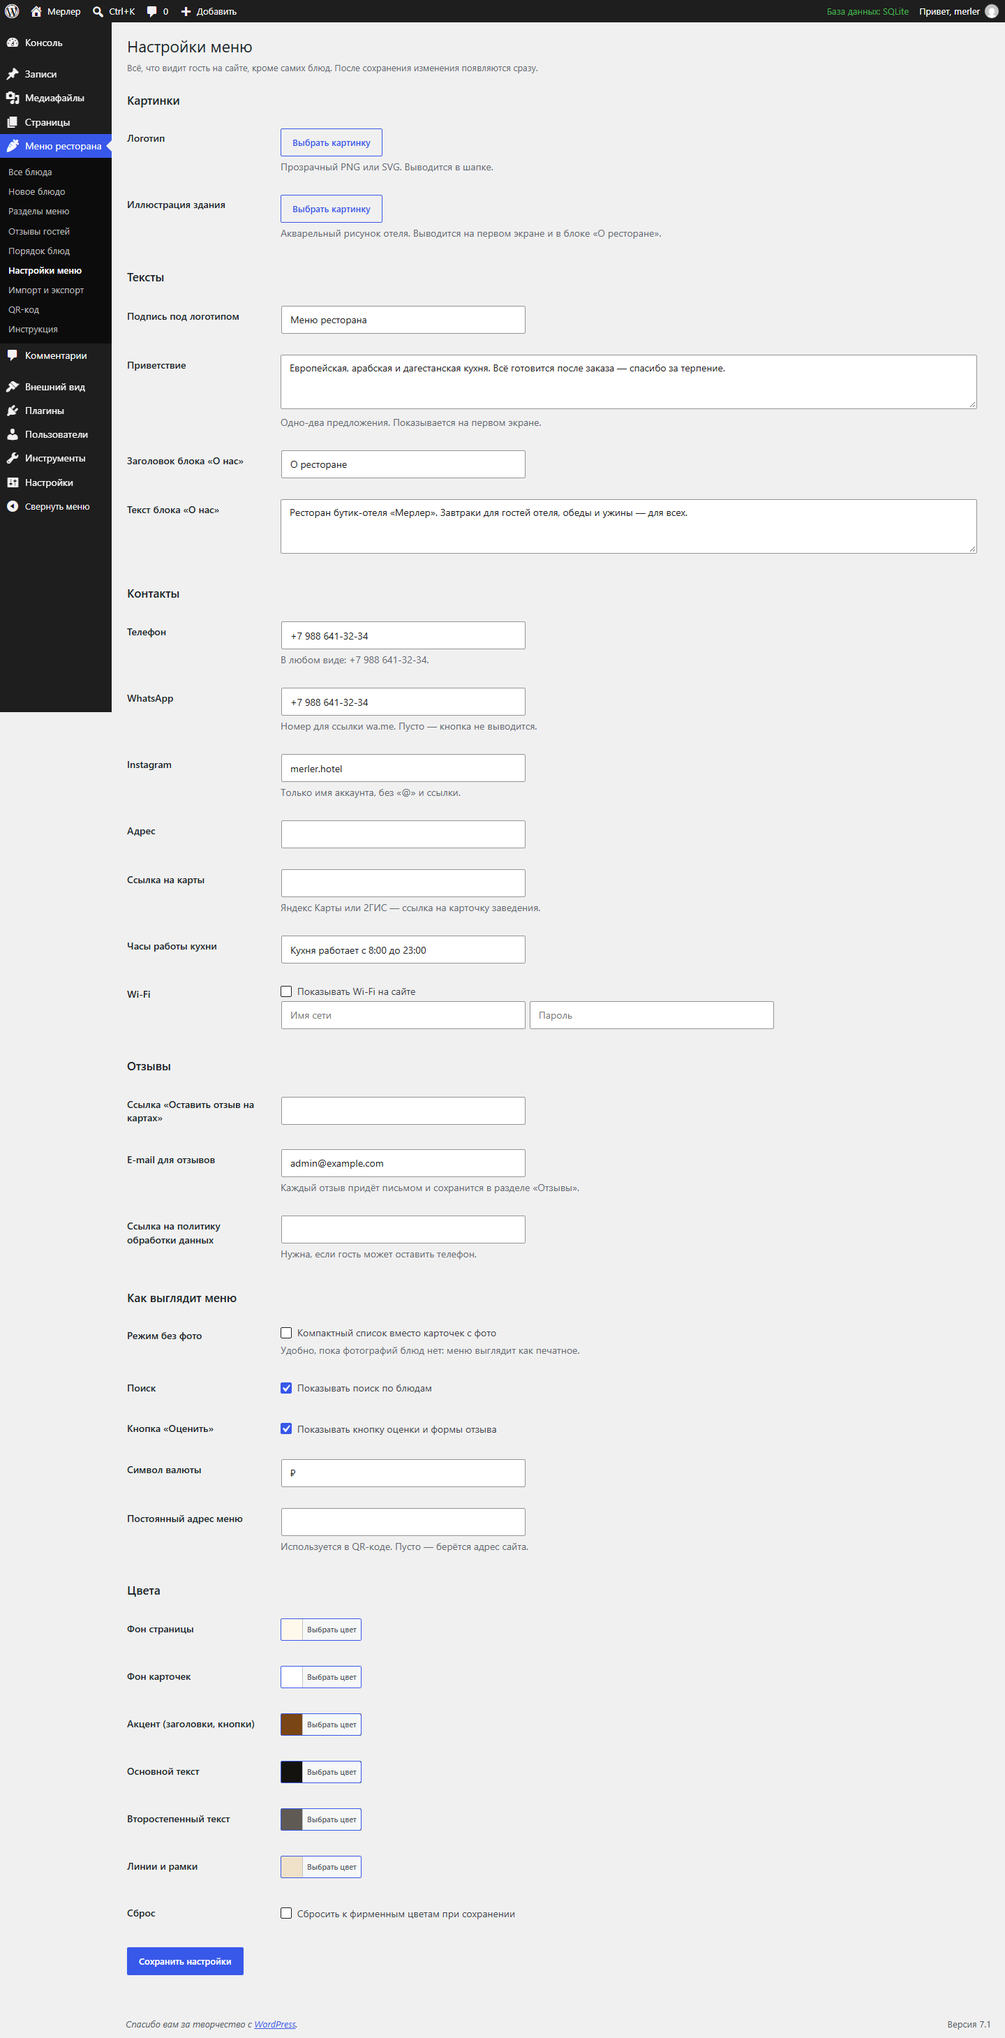
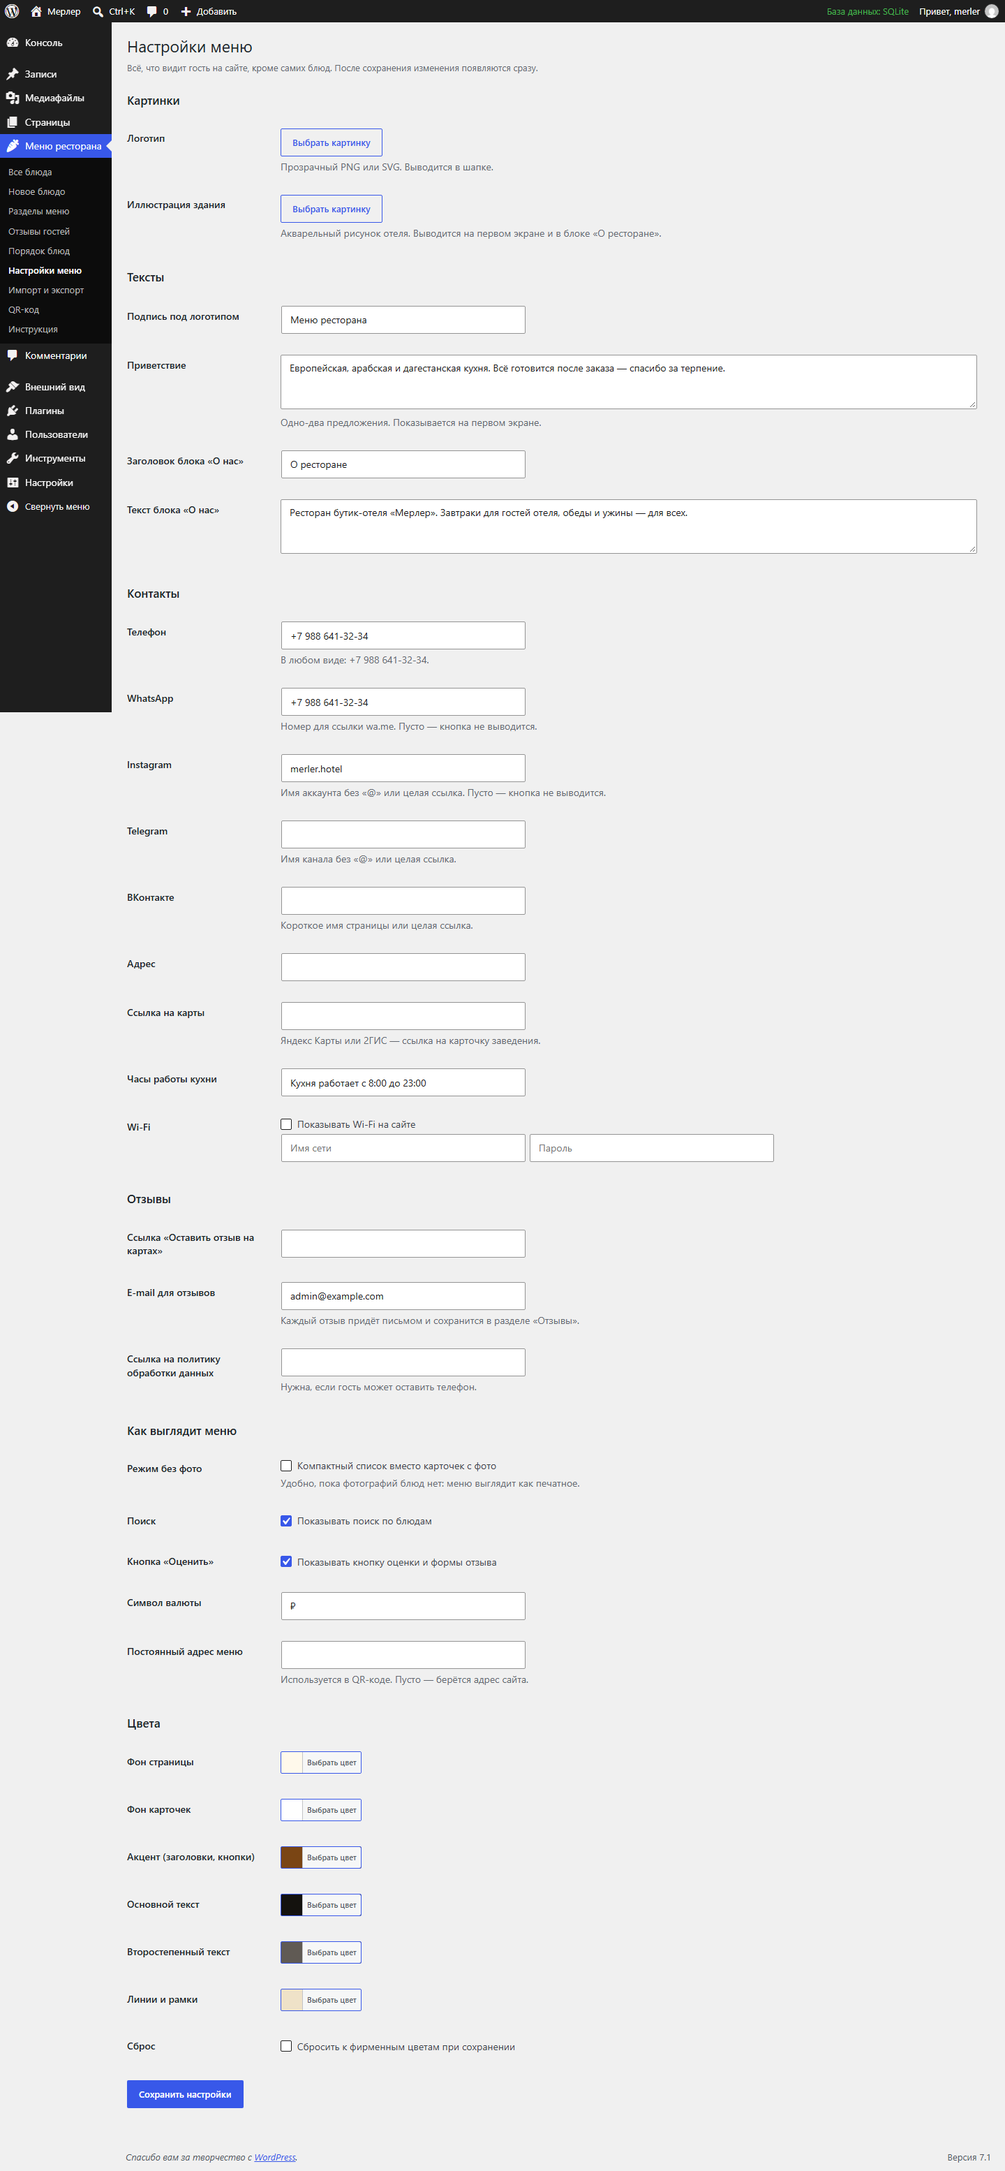
Соцсети в настройках: добавлены Telegram и ВКонтакте
Заказчик хочет менять описание сверху и ссылки на соцсети сам. Приветствие и
Instagram уже были в «Настройках меню», добавлены поля Telegram и ВКонтакте.

В поле принимается и короткое имя аккаунта, и целая ссылка — merler_social_url()
разбирается сам. Пустое поле не выводит кнопку на сайте.

Инструкция для клиента дополнена таблицей «что видит гость → где меняется»
по всем полям настроек.

Проверено: username → t.me/merler_hotel, полная ссылка остаётся как есть.
Тесты: 31 из 31 в первой части.

diff --git a/index.html b/index.html
@@ -3873,7 +3873,7 @@ html :where(.is-position-sticky) {
 							<a href="https://wa.me/79886413234" target="_blank" rel="noopener">WhatsApp</a>
 			
 							<a href="https://instagram.com/merler.hotel" target="_blank" rel="noopener">Instagram</a>
-			
+				
 					</div>
 	</div>
 

diff --git a/plugin/merler-menu/includes/class-merler-settings.php b/plugin/merler-menu/includes/class-merler-settings.php
@@ -46,6 +46,8 @@ class Merler_Settings {
 			'phone'         => '+7 988 641-32-34',
 			'whatsapp'      => '+7 988 641-32-34',
 			'instagram'     => 'merler.hotel',
+			'telegram'      => '',
+			'vk'            => '',
 			'address'       => '',
 			'map_url'       => '',
 			'hours'         => __( 'Кухня работает с 8:00 до 23:00', 'merler-menu' ),
@@ -124,7 +126,7 @@ class Merler_Settings {
 		$input    = is_array( $input ) ? $input : array();
 		$defaults = self::defaults();
 
-		$text_fields = array( 'hero_title', 'about_title', 'phone', 'whatsapp', 'instagram', 'address', 'hours', 'wifi_name', 'wifi_pass', 'currency' );
+		$text_fields = array( 'hero_title', 'about_title', 'phone', 'whatsapp', 'instagram', 'telegram', 'vk', 'address', 'hours', 'wifi_name', 'wifi_pass', 'currency' );
 		foreach ( $text_fields as $field ) {
 			if ( isset( $input[ $field ] ) ) {
 				$out[ $field ] = sanitize_text_field( wp_unslash( $input[ $field ] ) );
@@ -221,7 +223,9 @@ class Merler_Settings {
 					<?php
 					self::text_row( 'phone', __( 'Телефон', 'merler-menu' ), $s['phone'], __( 'В любом виде: +7 988 641-32-34.', 'merler-menu' ) );
 					self::text_row( 'whatsapp', __( 'WhatsApp', 'merler-menu' ), $s['whatsapp'], __( 'Номер для ссылки wa.me. Пусто — кнопка не выводится.', 'merler-menu' ) );
-					self::text_row( 'instagram', __( 'Instagram', 'merler-menu' ), $s['instagram'], __( 'Только имя аккаунта, без «@» и ссылки.', 'merler-menu' ) );
+					self::text_row( 'instagram', __( 'Instagram', 'merler-menu' ), $s['instagram'], __( 'Имя аккаунта без «@» или целая ссылка. Пусто — кнопка не выводится.', 'merler-menu' ) );
+					self::text_row( 'telegram', __( 'Telegram', 'merler-menu' ), $s['telegram'], __( 'Имя канала без «@» или целая ссылка.', 'merler-menu' ) );
+					self::text_row( 'vk', __( 'ВКонтакте', 'merler-menu' ), $s['vk'], __( 'Короткое имя страницы или целая ссылка.', 'merler-menu' ) );
 					self::text_row( 'address', __( 'Адрес', 'merler-menu' ), $s['address'] );
 					self::text_row( 'map_url', __( 'Ссылка на карты', 'merler-menu' ), $s['map_url'], __( 'Яндекс Карты или 2ГИС — ссылка на карточку заведения.', 'merler-menu' ) );
 					self::text_row( 'hours', __( 'Часы работы кухни', 'merler-menu' ), $s['hours'] );

diff --git a/theme/merler-theme/template-parts/about.php b/theme/merler-theme/template-parts/about.php
@@ -10,6 +10,8 @@ defined( 'ABSPATH' ) || exit;
 $merler_phone     = merler_theme_option( 'phone' );
 $merler_whatsapp  = merler_theme_option( 'whatsapp' );
 $merler_instagram = merler_theme_option( 'instagram' );
+$merler_telegram  = merler_theme_option( 'telegram' );
+$merler_vk        = merler_theme_option( 'vk' );
 $merler_address   = merler_theme_option( 'address' );
 $merler_map       = merler_theme_option( 'map_url' );
 $merler_hours     = merler_theme_option( 'hours' );
@@ -62,9 +64,22 @@ $merler_wa_link    = function_exists( 'merler_phone_digits' ) ? merler_phone_dig
 				<a href="https://wa.me/<?php echo esc_attr( $merler_wa_link ); ?>" target="_blank" rel="noopener">WhatsApp</a>
 			<?php endif; ?>
 
-			<?php if ( $merler_instagram ) : ?>
-				<a href="https://instagram.com/<?php echo esc_attr( ltrim( $merler_instagram, '@' ) ); ?>" target="_blank" rel="noopener">Instagram</a>
-			<?php endif; ?>
+			<?php
+			$merler_socials = array(
+				'Instagram' => function_exists( 'merler_social_url' ) ? merler_social_url( $merler_instagram, 'https://instagram.com/' ) : '',
+				'Telegram'  => function_exists( 'merler_social_url' ) ? merler_social_url( $merler_telegram, 'https://t.me/' ) : '',
+				'ВКонтакте' => function_exists( 'merler_social_url' ) ? merler_social_url( $merler_vk, 'https://vk.com/' ) : '',
+			);
+
+			foreach ( $merler_socials as $merler_label => $merler_link ) :
+				if ( ! $merler_link ) {
+					continue;
+				}
+				?>
+				<a href="<?php echo esc_url( $merler_link ); ?>" target="_blank" rel="noopener"><?php echo esc_html( $merler_label ); ?></a>
+				<?php
+			endforeach;
+			?>
 
 			<?php if ( $merler_map ) : ?>
 				<a href="<?php echo esc_url( $merler_map ); ?>" target="_blank" rel="noopener"><?php esc_html_e( 'На карте', 'merler-theme' ); ?></a>

diff --git a/plugin/merler-menu/includes/functions.php b/plugin/merler-menu/includes/functions.php
@@ -192,3 +192,24 @@ function merler_transliterate( $text ) {
 
 	return sanitize_title( $text );
 }
+
+/**
+ * Ссылка на соцсеть из настройки: клиент может вписать и имя аккаунта, и целый адрес.
+ *
+ * @param string $value Значение настройки.
+ * @param string $base  Базовый адрес, например «https://t.me/».
+ * @return string Готовая ссылка или пустая строка.
+ */
+function merler_social_url( $value, $base ) {
+	$value = trim( (string) $value );
+
+	if ( '' === $value ) {
+		return '';
+	}
+
+	if ( preg_match( '~^https?://~i', $value ) ) {
+		return esc_url_raw( $value );
+	}
+
+	return esc_url_raw( $base . ltrim( $value, '@/' ) );
+}

diff --git a/dist/docs/instrukciya-dlya-klienta.md b/dist/docs/instrukciya-dlya-klienta.md
@@ -99,18 +99,41 @@
 
 ---
 
-## Как поменять телефон, адрес, картинки и цвета
+## Как поменять тексты, контакты, соцсети, картинки и цвета
 
-**«Меню ресторана»** → **«Настройки меню»**. Одна страница, всё подписано:
+Всё это — на одной странице: **«Меню ресторана»** → **«Настройки меню»**. Каждое поле подписано, после кнопки «Сохранить настройки» изменения видны на сайте сразу.
 
-- **Картинки** — логотип и акварельная иллюстрация здания;
-- **Тексты** — приветствие на первом экране и блок «О ресторане»;
-- **Контакты** — телефон, WhatsApp, Instagram, адрес, ссылка на карты, часы работы кухни, Wi-Fi;
-- **Отзывы** — куда ведёт кнопка «Оставить отзыв на картах» и на какую почту приходят отзывы;
-- **Как выглядит меню** — режим без фото, поиск, кнопка «Оценить»;
-- **Цвета** — если что-то испортили, поставьте галочку «Сбросить к фирменным цветам» и сохраните.
+### Что именно можно поменять
 
-Внизу — **«Сохранить настройки»**.
+| Что видит гость | Где меняется |
+|---|---|
+| Логотип в шапке | Картинки → **Логотип** |
+| Акварельный рисунок отеля | Картинки → **Иллюстрация здания** |
+| Подпись «Меню ресторана» под логотипом | Тексты → **Подпись под логотипом** |
+| **Описание сверху** («Европейская, арабская и дагестанская кухня…») | Тексты → **Приветствие** |
+| Заголовок и текст блока «О ресторане» | Тексты → **Заголовок блока «О нас»** и **Текст блока «О нас»** |
+| Телефон (кнопка звонка) | Контакты → **Телефон** |
+| Кнопка WhatsApp | Контакты → **WhatsApp** |
+| **Кнопка Instagram** | Контакты → **Instagram** |
+| **Кнопка Telegram** | Контакты → **Telegram** |
+| **Кнопка ВКонтакте** | Контакты → **ВКонтакте** |
+| Адрес и кнопка «На карте» | Контакты → **Адрес** и **Ссылка на карты** |
+| Часы работы кухни (видны в блоке «О нас» и в подвале) | Контакты → **Часы работы кухни** |
+| Wi-Fi для гостей | Контакты → **Wi-Fi** (галочка «Показывать») |
+| Куда ведёт «Оставить отзыв на картах» | Отзывы → **Ссылка** |
+| Почта, куда приходят отзывы | Отзывы → **E-mail для отзывов** |
+| Компактный список вместо карточек с фото | Как выглядит меню → **Режим без фото** |
+| Поиск и кнопка «Оценить» | Как выглядит меню → галочки |
+| Символ валюты | Как выглядит меню → **Символ валюты** |
+| Цвета фона, карточек, заголовков, текста | Цвета |
+
+### Про соцсети
+
+В поля Instagram, Telegram и ВКонтакте можно вписать **или** короткое имя аккаунта (`merler.hotel`), **или** целую ссылку (`https://vk.com/merlerhotel`) — сайт разберётся сам. Если поле пустое, кнопка на сайте не выводится: лишних кнопок не будет.
+
+### Если испортили цвета
+
+В разделе «Цвета» поставьте галочку **«Сбросить к фирменным цветам»** и сохраните — вернутся исходные.
 
 ---
 

diff --git a/docs/instrukciya-dlya-klienta.md b/docs/instrukciya-dlya-klienta.md
@@ -99,18 +99,41 @@
 
 ---
 
-## Как поменять телефон, адрес, картинки и цвета
+## Как поменять тексты, контакты, соцсети, картинки и цвета
 
-**«Меню ресторана»** → **«Настройки меню»**. Одна страница, всё подписано:
+Всё это — на одной странице: **«Меню ресторана»** → **«Настройки меню»**. Каждое поле подписано, после кнопки «Сохранить настройки» изменения видны на сайте сразу.
 
-- **Картинки** — логотип и акварельная иллюстрация здания;
-- **Тексты** — приветствие на первом экране и блок «О ресторане»;
-- **Контакты** — телефон, WhatsApp, Instagram, адрес, ссылка на карты, часы работы кухни, Wi-Fi;
-- **Отзывы** — куда ведёт кнопка «Оставить отзыв на картах» и на какую почту приходят отзывы;
-- **Как выглядит меню** — режим без фото, поиск, кнопка «Оценить»;
-- **Цвета** — если что-то испортили, поставьте галочку «Сбросить к фирменным цветам» и сохраните.
+### Что именно можно поменять
 
-Внизу — **«Сохранить настройки»**.
+| Что видит гость | Где меняется |
+|---|---|
+| Логотип в шапке | Картинки → **Логотип** |
+| Акварельный рисунок отеля | Картинки → **Иллюстрация здания** |
+| Подпись «Меню ресторана» под логотипом | Тексты → **Подпись под логотипом** |
+| **Описание сверху** («Европейская, арабская и дагестанская кухня…») | Тексты → **Приветствие** |
+| Заголовок и текст блока «О ресторане» | Тексты → **Заголовок блока «О нас»** и **Текст блока «О нас»** |
+| Телефон (кнопка звонка) | Контакты → **Телефон** |
+| Кнопка WhatsApp | Контакты → **WhatsApp** |
+| **Кнопка Instagram** | Контакты → **Instagram** |
+| **Кнопка Telegram** | Контакты → **Telegram** |
+| **Кнопка ВКонтакте** | Контакты → **ВКонтакте** |
+| Адрес и кнопка «На карте» | Контакты → **Адрес** и **Ссылка на карты** |
+| Часы работы кухни (видны в блоке «О нас» и в подвале) | Контакты → **Часы работы кухни** |
+| Wi-Fi для гостей | Контакты → **Wi-Fi** (галочка «Показывать») |
+| Куда ведёт «Оставить отзыв на картах» | Отзывы → **Ссылка** |
+| Почта, куда приходят отзывы | Отзывы → **E-mail для отзывов** |
+| Компактный список вместо карточек с фото | Как выглядит меню → **Режим без фото** |
+| Поиск и кнопка «Оценить» | Как выглядит меню → галочки |
+| Символ валюты | Как выглядит меню → **Символ валюты** |
+| Цвета фона, карточек, заголовков, текста | Цвета |
+
+### Про соцсети
+
+В поля Instagram, Telegram и ВКонтакте можно вписать **или** короткое имя аккаунта (`merler.hotel`), **или** целую ссылку (`https://vk.com/merlerhotel`) — сайт разберётся сам. Если поле пустое, кнопка на сайте не выводится: лишних кнопок не будет.
+
+### Если испортили цвета
+
+В разделе «Цвета» поставьте галочку **«Сбросить к фирменным цветам»** и сохраните — вернутся исходные.
 
 ---
 
